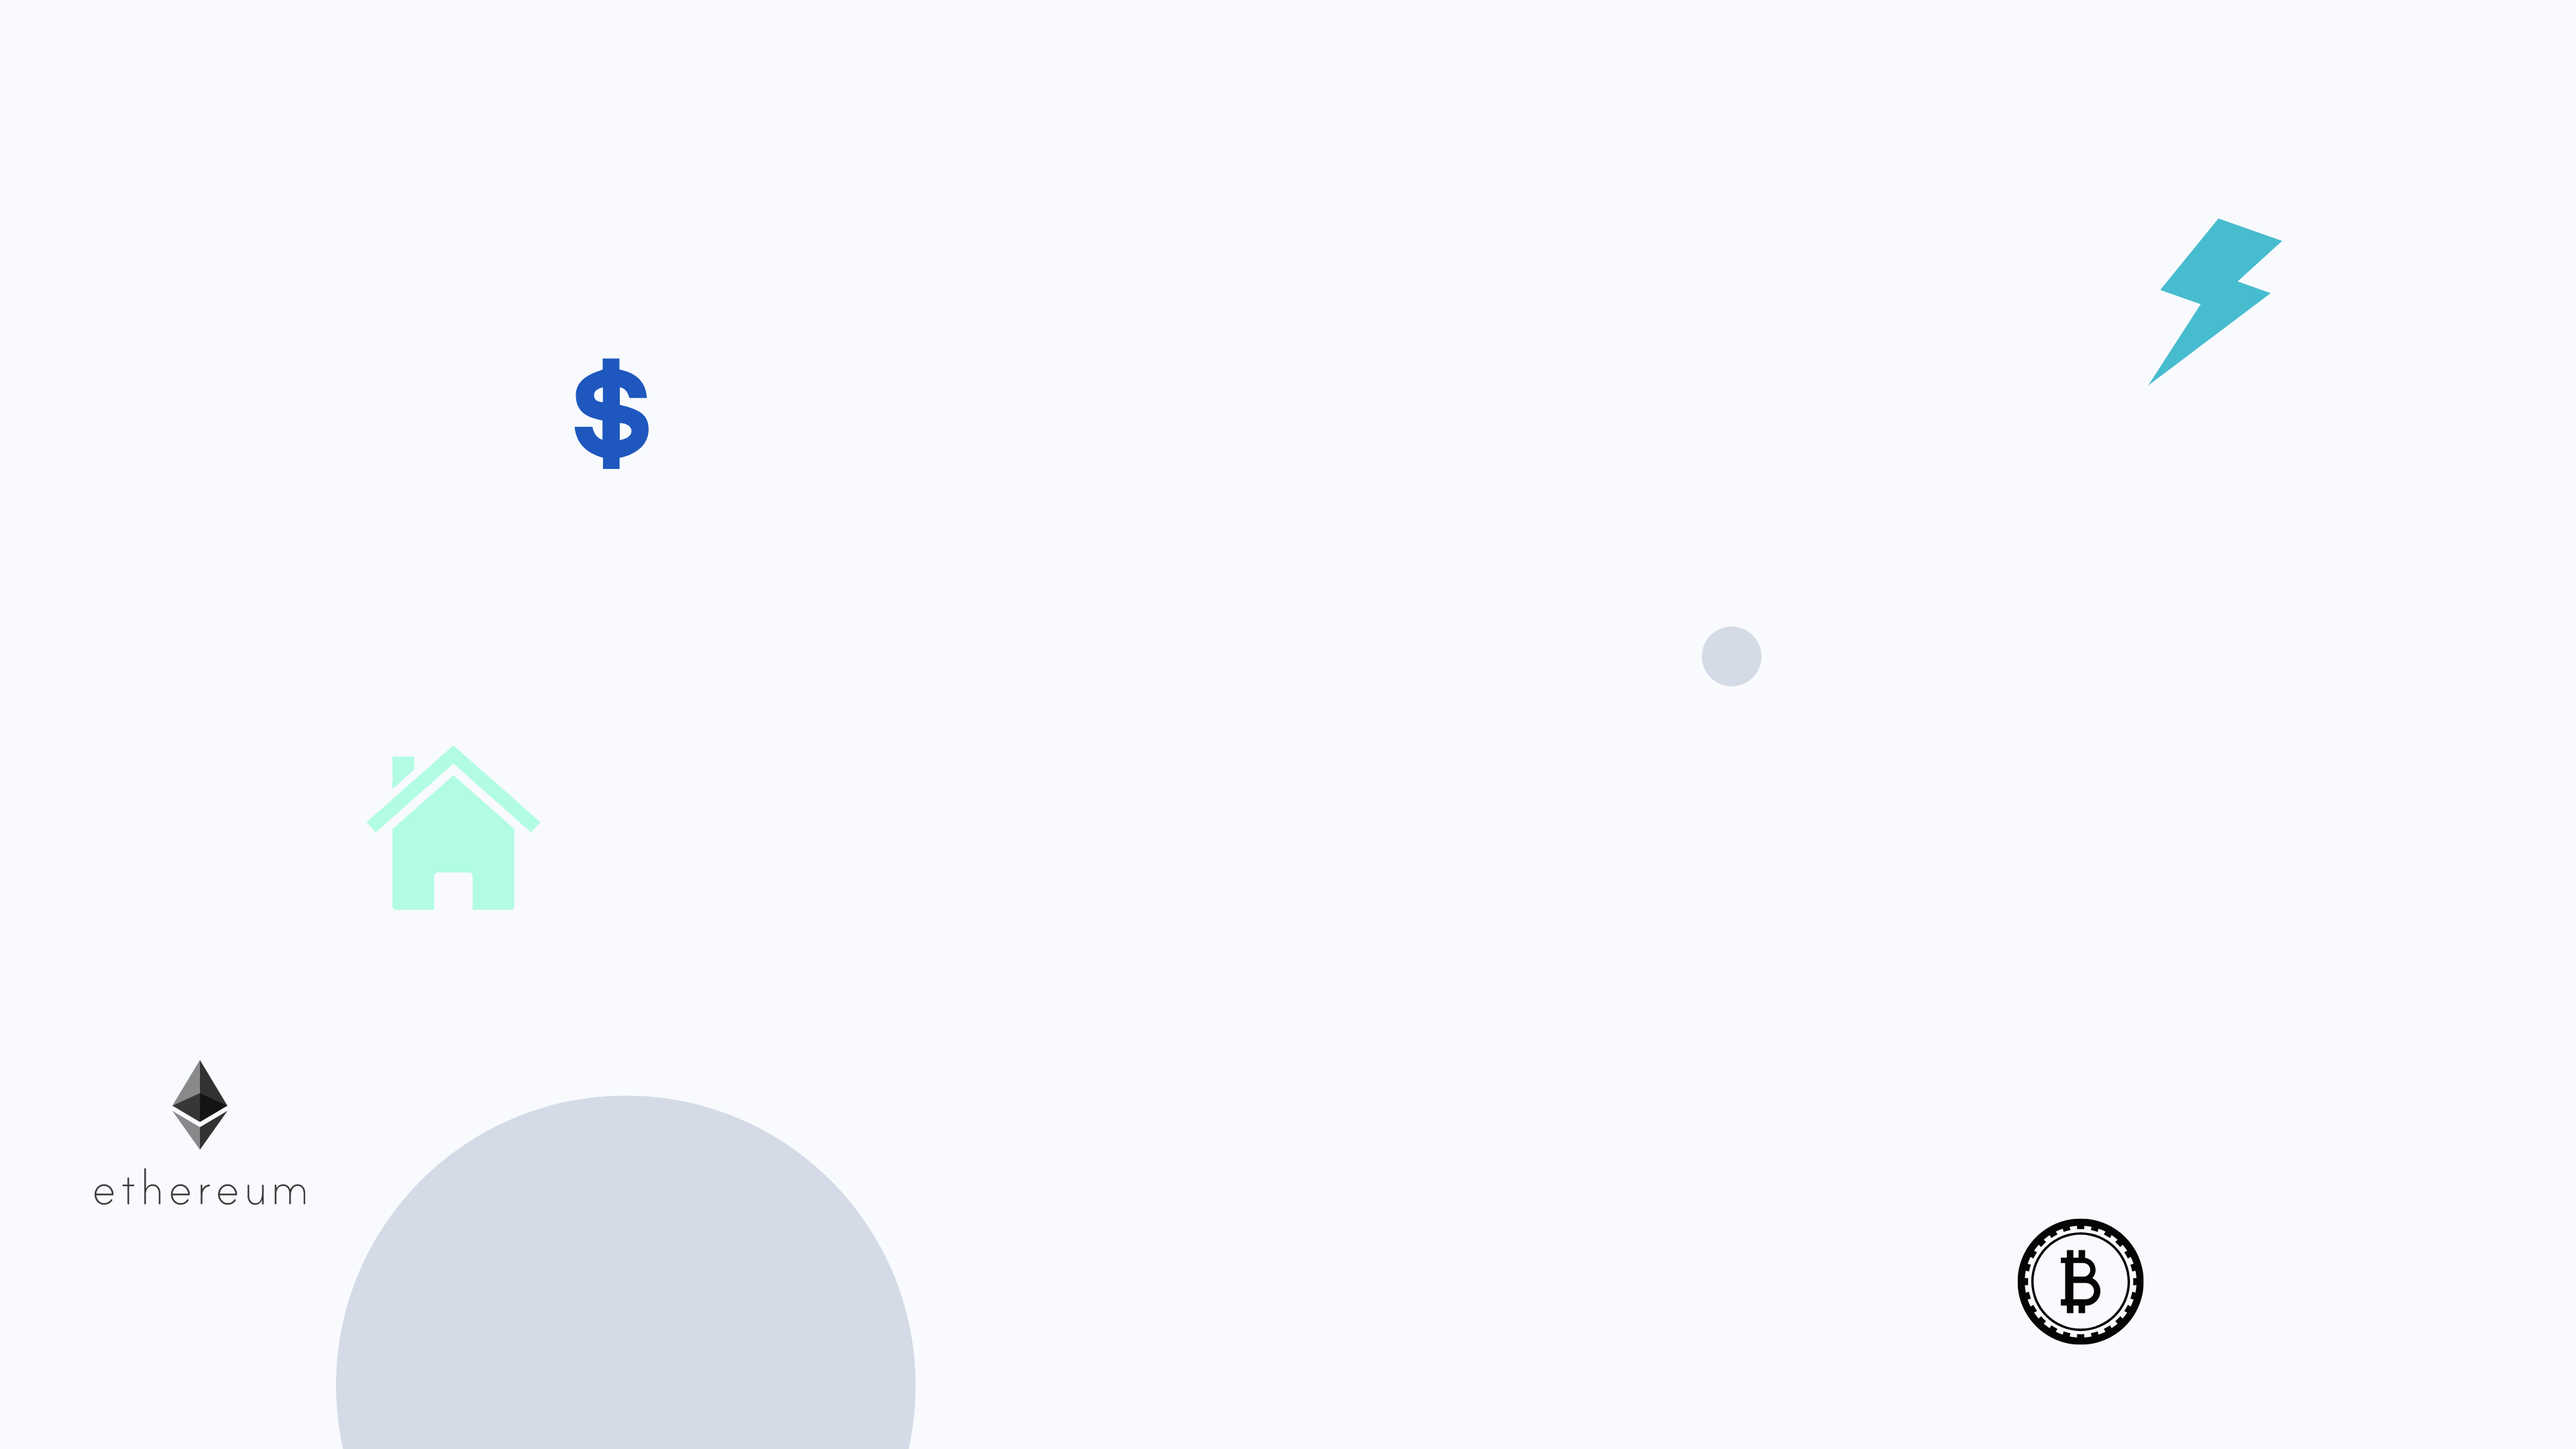
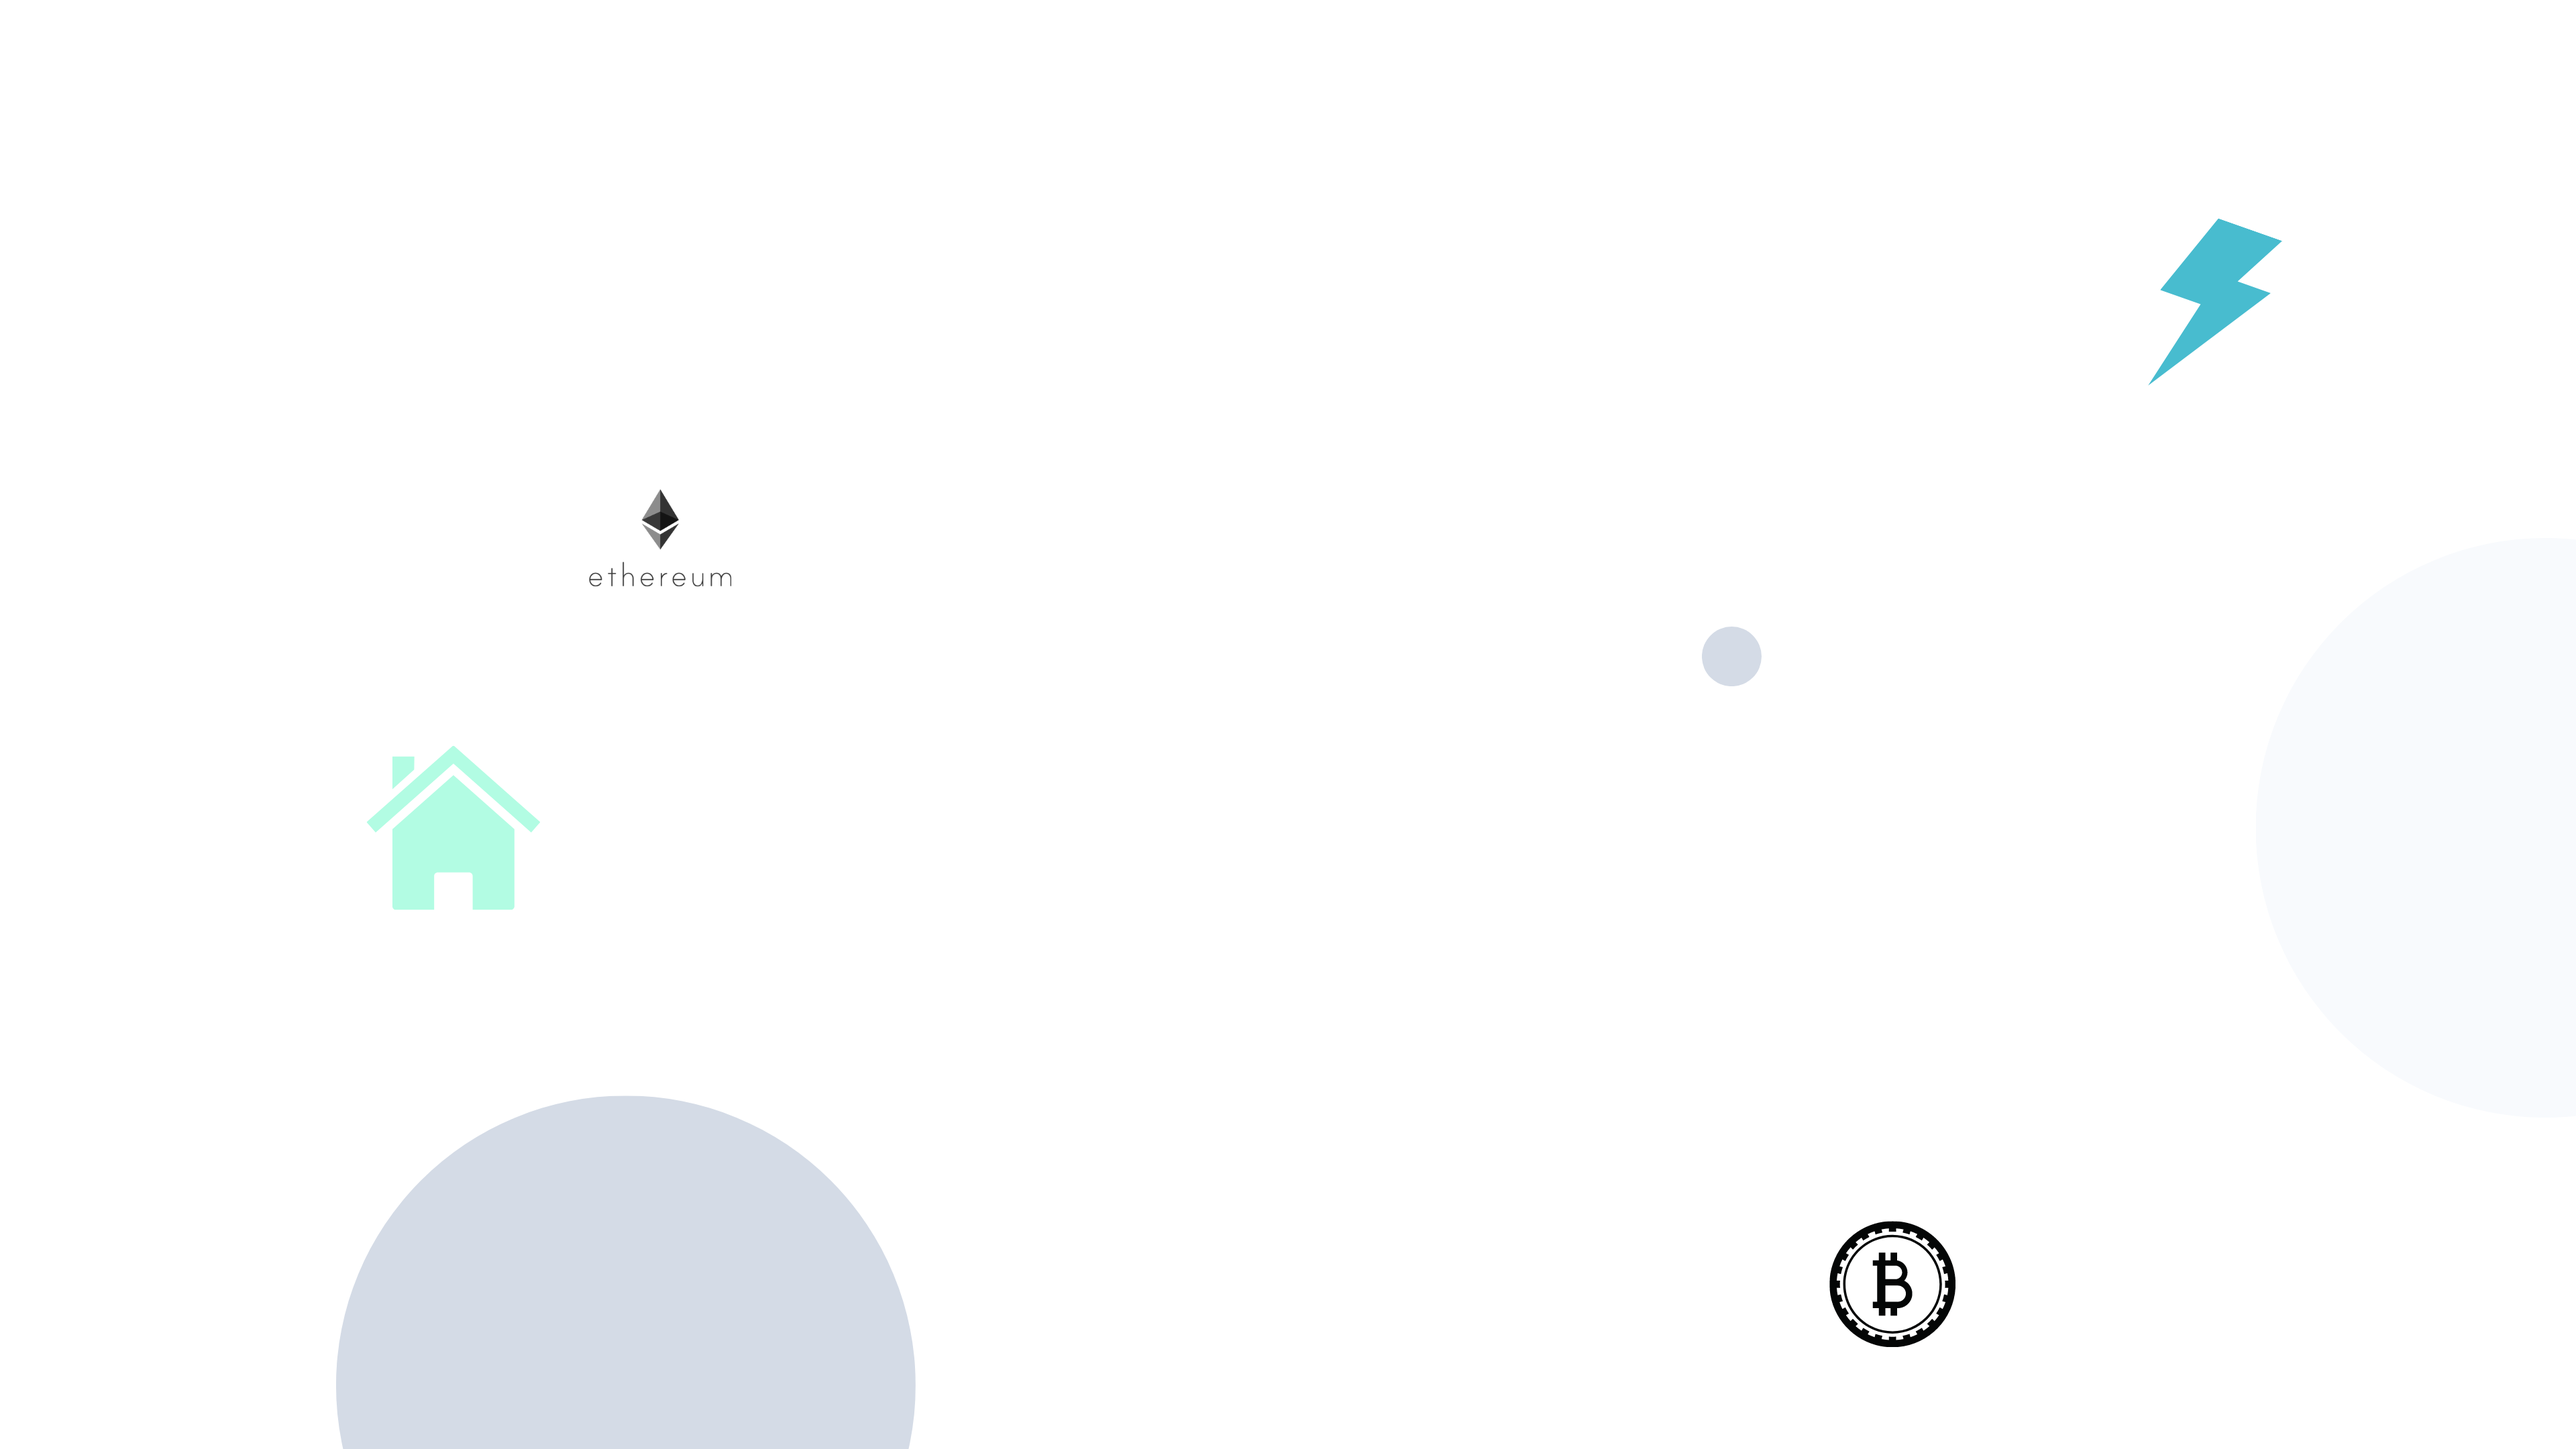
intro section updated

diff --git a/front_end/src/container/Introduction/Introduction.jsx b/front_end/src/container/Introduction/Introduction.jsx
@@ -1,9 +1,59 @@
+import { motion } from 'framer-motion';
 import React from 'react';
+import { images } from '../../constants';
+import { AppWrap, MotionWrap } from '../../Wrapper';
+import './Introduction.scss';
 
 const Introduction = () => {
   return (
-    <div>Introduction</div>
+    <div className='app__header app__flex'>
+      <div>
+      <motion.div
+        whileInView={ {x: [-100, 0], opacity: [0, 1]} }
+        transition={ {duration: 1} }
+        className='app__header-info'
+      >
+          <div className='app__header-badge'>
+            <div className='badge-cmp app__flex'>
+              <span><img src={images.John}/></span>
+              <div style={{ marginLeft: 20 }}>
+                <p>Real estate investment powered by Blockchain <br/> 
+                fsdfsdfsdfsdfsdfsdfsdffdsfsdfsdfsdfsdfsdfsdfsdfsd.</p>
+              </div>
+            </div>
+          </div>
+      </motion.div>
+      <br />
+      <motion.div
+        whileInView={ {x: [-100, 0], opacity: [0, 1]} }
+        transition={ {duration: 1} }
+        className='app__header-info'
+      >
+          <div className='app__header-badge'>
+            <div className='badge-cmp app__flex'>
+              <span><img src={images.Dave}/></span>
+              <div style={{ marginLeft: 20 }}>
+                <p>Real estate investment powered by Blockchain <br/> 
+                fsdfsdfsdfsdfsdfsdfsdffdsfsdfsdfsdfsdfsdfsdfsdfsd.</p>
+              </div>
+            </div>
+          </div>
+      </motion.div>
+      </div>
+
+      <motion.img
+          whileInView={ {scale: [0, 1]} }
+          transition={ {duration: 1, ease: 'easeInOut'} }
+          className='overlay_house'
+          src={images.house}
+          alt='profile_house'
+        />
+    </div>
   )
 }
 
-export default Introduction;
+export default AppWrap(
+  MotionWrap(Introduction),
+  'introduction',
+  'app__whitebg',
+);

diff --git a/front_end/src/container/Introduction/Introduction.scss b/front_end/src/container/Introduction/Introduction.scss
@@ -1,0 +1,88 @@
+.app__header {
+    flex: 1;
+    width: 100%;
+    height: 100%;
+    flex-direction: row;
+    
+  
+    padding: 6rem 2rem 0rem;
+  
+    @media screen and (min-width: 2000px) {
+      padding-top: 8rem;
+    }
+  
+    @media screen and (max-width: 1200px) {
+      flex-direction: column;
+    }
+  
+    @media screen and (max-width: 450px) {
+      padding: 6rem 1rem 2rem;
+    }
+}
+  
+.app__header-info {
+    flex: 0.65;
+    display: flex;
+    height: 100%;
+  
+    margin: 0 2rem;
+  
+    @media screen and (max-width: 1200px) {
+      width: 100%;
+      margin-right: 0rem;
+    }
+
+}
+
+
+.app__header-badge {
+        width: 100%;
+        display: flex;
+        justify-content: center;
+        align-items: center;
+        flex-direction: column;
+    
+        .badge-cmp {
+        padding: 1rem 2rem;
+        background: var(--white-color);
+        border-radius: 15px;
+        flex-direction: row;
+        width: auto;
+    
+        box-shadow: 0px 0px 20px rgba(0, 0, 0, 0.1);
+        }
+    
+        span {
+        font-size: 2.5rem;
+    
+        @media screen and (min-width: 2000px) {
+            font-size: 5rem;
+        }
+        }
+    
+        @media screen and (max-width: 1200px) {
+        justify-content: flex-start;
+        align-items: flex-start;
+        }
+}
+ 
+  
+.app__header-img {
+    flex: 1;
+    height: 100%;
+  
+    display: flex;
+    justify-content: flex-end;
+    align-items: flex-end;
+    position: relative;
+  
+    img {
+      width: 80%;
+      object-fit: contain;
+      z-index: 1;
+    }
+    
+    @media screen and (max-width: 1200px) {
+      margin: 2rem 0;
+    }
+}

diff --git a/front_end/src/container/Header/Header.jsx b/front_end/src/container/Header/Header.jsx
@@ -2,18 +2,17 @@ import React from 'react';
 import { motion } from 'framer-motion';
 import { images } from '../../constants';
 import { AppWrap } from '../../Wrapper';
-import { BsLinkedin, BsGithub } from 'react-icons/bs';
 import './Header.scss';
 
 const Header = () => {
   return (
-    <div id='home' className='app__header app__flex'>
+    <div className='app__header app__flex'>
       <motion.div
         whileInView={ {x: [-100, 0], opacity: [0, 1]} }
         transition={ {duration: 1} }
         className='app__header-info'
       >
-        <div className='app_header-badge'>
+        <div className='app__header-badge'>
           <div className='badge-cmp app__flex'>
             <span><img src="https://img.icons8.com/fluency/48/000000/tornado.png"/></span>
             <div style={{ marginLeft: 20 }}>
@@ -33,13 +32,13 @@ const Header = () => {
         <motion.img
           whileInView={ {scale: [0, 1]} }
           transition={ {duration: 1, ease: 'easeInOut'} }
-          className='overlay_circle'
-          src={images.circle}
-          alt='profile_circle'
+          className='overlay_house'
+          src={images.house}
+          alt='profile_house'
         />
       </motion.div>
     </div>
   )
 }
 
-export default Header;
+export default AppWrap(Header, 'home');

diff --git a/front_end/src/components/NavigationDots.jsx b/front_end/src/components/NavigationDots.jsx
@@ -1,0 +1,18 @@
+import React from 'react';
+
+const NavigationDots = ( { active }) => {
+  return (
+    <div className='app__navigation'>
+        {['home', 'introduction', 'buy token', 'dividend', 'sell token'].map((item, index)=>(
+            <a 
+                href={`#${item}`}
+                key={item + index}
+                className='app__navigation-dot'
+                style={active === item ? { backgroundColor: '#313BAC' } : {}}
+            />
+        ))}
+    </div>
+  )
+}
+
+export default NavigationDots;

diff --git a/front_end/src/container/Header/Header.scss b/front_end/src/container/Header/Header.scss
@@ -55,8 +55,8 @@
 .app__header-badge {
     width: 100%;
     display: flex;
-    justify-content: flex-end;
-    align-items: flex-end;
+    justify-content: center;
+    align-items: center;
     flex-direction: column;
   
     .badge-cmp {
@@ -94,12 +94,12 @@
     position: relative;
   
     img {
-      width: 100%;
+      width: 80%;
       object-fit: contain;
       z-index: 1;
     }
   
-    .overlay_circle {
+    .overlay_house {
       position: absolute;
       left: 0;
       right: 0;

diff --git a/front_end/src/components/SocialMedia.jsx b/front_end/src/components/SocialMedia.jsx
@@ -1,0 +1,17 @@
+import React from 'react';
+import { BsLinkedin, BsGithub } from 'react-icons/bs';
+
+const SocialMedia = () => {
+  return (
+    <div className='app__social'>
+        <div>
+            <a href="https://www.linkedin.com/in/thanh-quach1/"><BsLinkedin /></a>
+        </div>
+        <div>
+            <a href="https://github.com/thanhtheman"><BsGithub /></a>
+        </div>
+    </div>
+  )
+}
+
+export default SocialMedia

diff --git a/front_end/src/constants/images.js b/front_end/src/constants/images.js
@@ -1,5 +1,8 @@
 import logo from '../assets/logo.png';
 import profile from '../assets/profile.png';
+import house from '../assets/house.svg';
+import John from '../assets/John_copy.png';
+import Dave from '../assets/Dave_copy.png';
 
 
-export default { logo, profile };
+export default { logo, profile, house, John, Dave };

diff --git a/front_end/public/index.html b/front_end/public/index.html
@@ -2,7 +2,7 @@
 <html lang="en">
   <head>
     <meta charset="utf-8" />
-    <link rel="icon" href="%PUBLIC_URL%/favicon.ico" />
+    <link rel="icon" href="%PUBLIC_URL%/favicon.png" />
     <meta name="viewport" content="width=device-width, initial-scale=1" />
     <meta name="theme-color" content="#000000" />
     <meta

diff --git a/front_end/src/App.js b/front_end/src/App.js
@@ -8,7 +8,7 @@ import './App.scss';
 function App() {
   return (
     <div className="app">
-      {/* <Navbar /> */}
+      <Navbar />
       <Header />
       <Introduction />
       <BuyToken />

diff --git a/front_end/src/components/index.js b/front_end/src/components/index.js
@@ -1,0 +1,3 @@
+export { default as NavigationDots } from './NavigationDots';
+export { default as SocialMedia } from './SocialMedia';
+export { default as Navbar } from './Navbar/Navbar';
